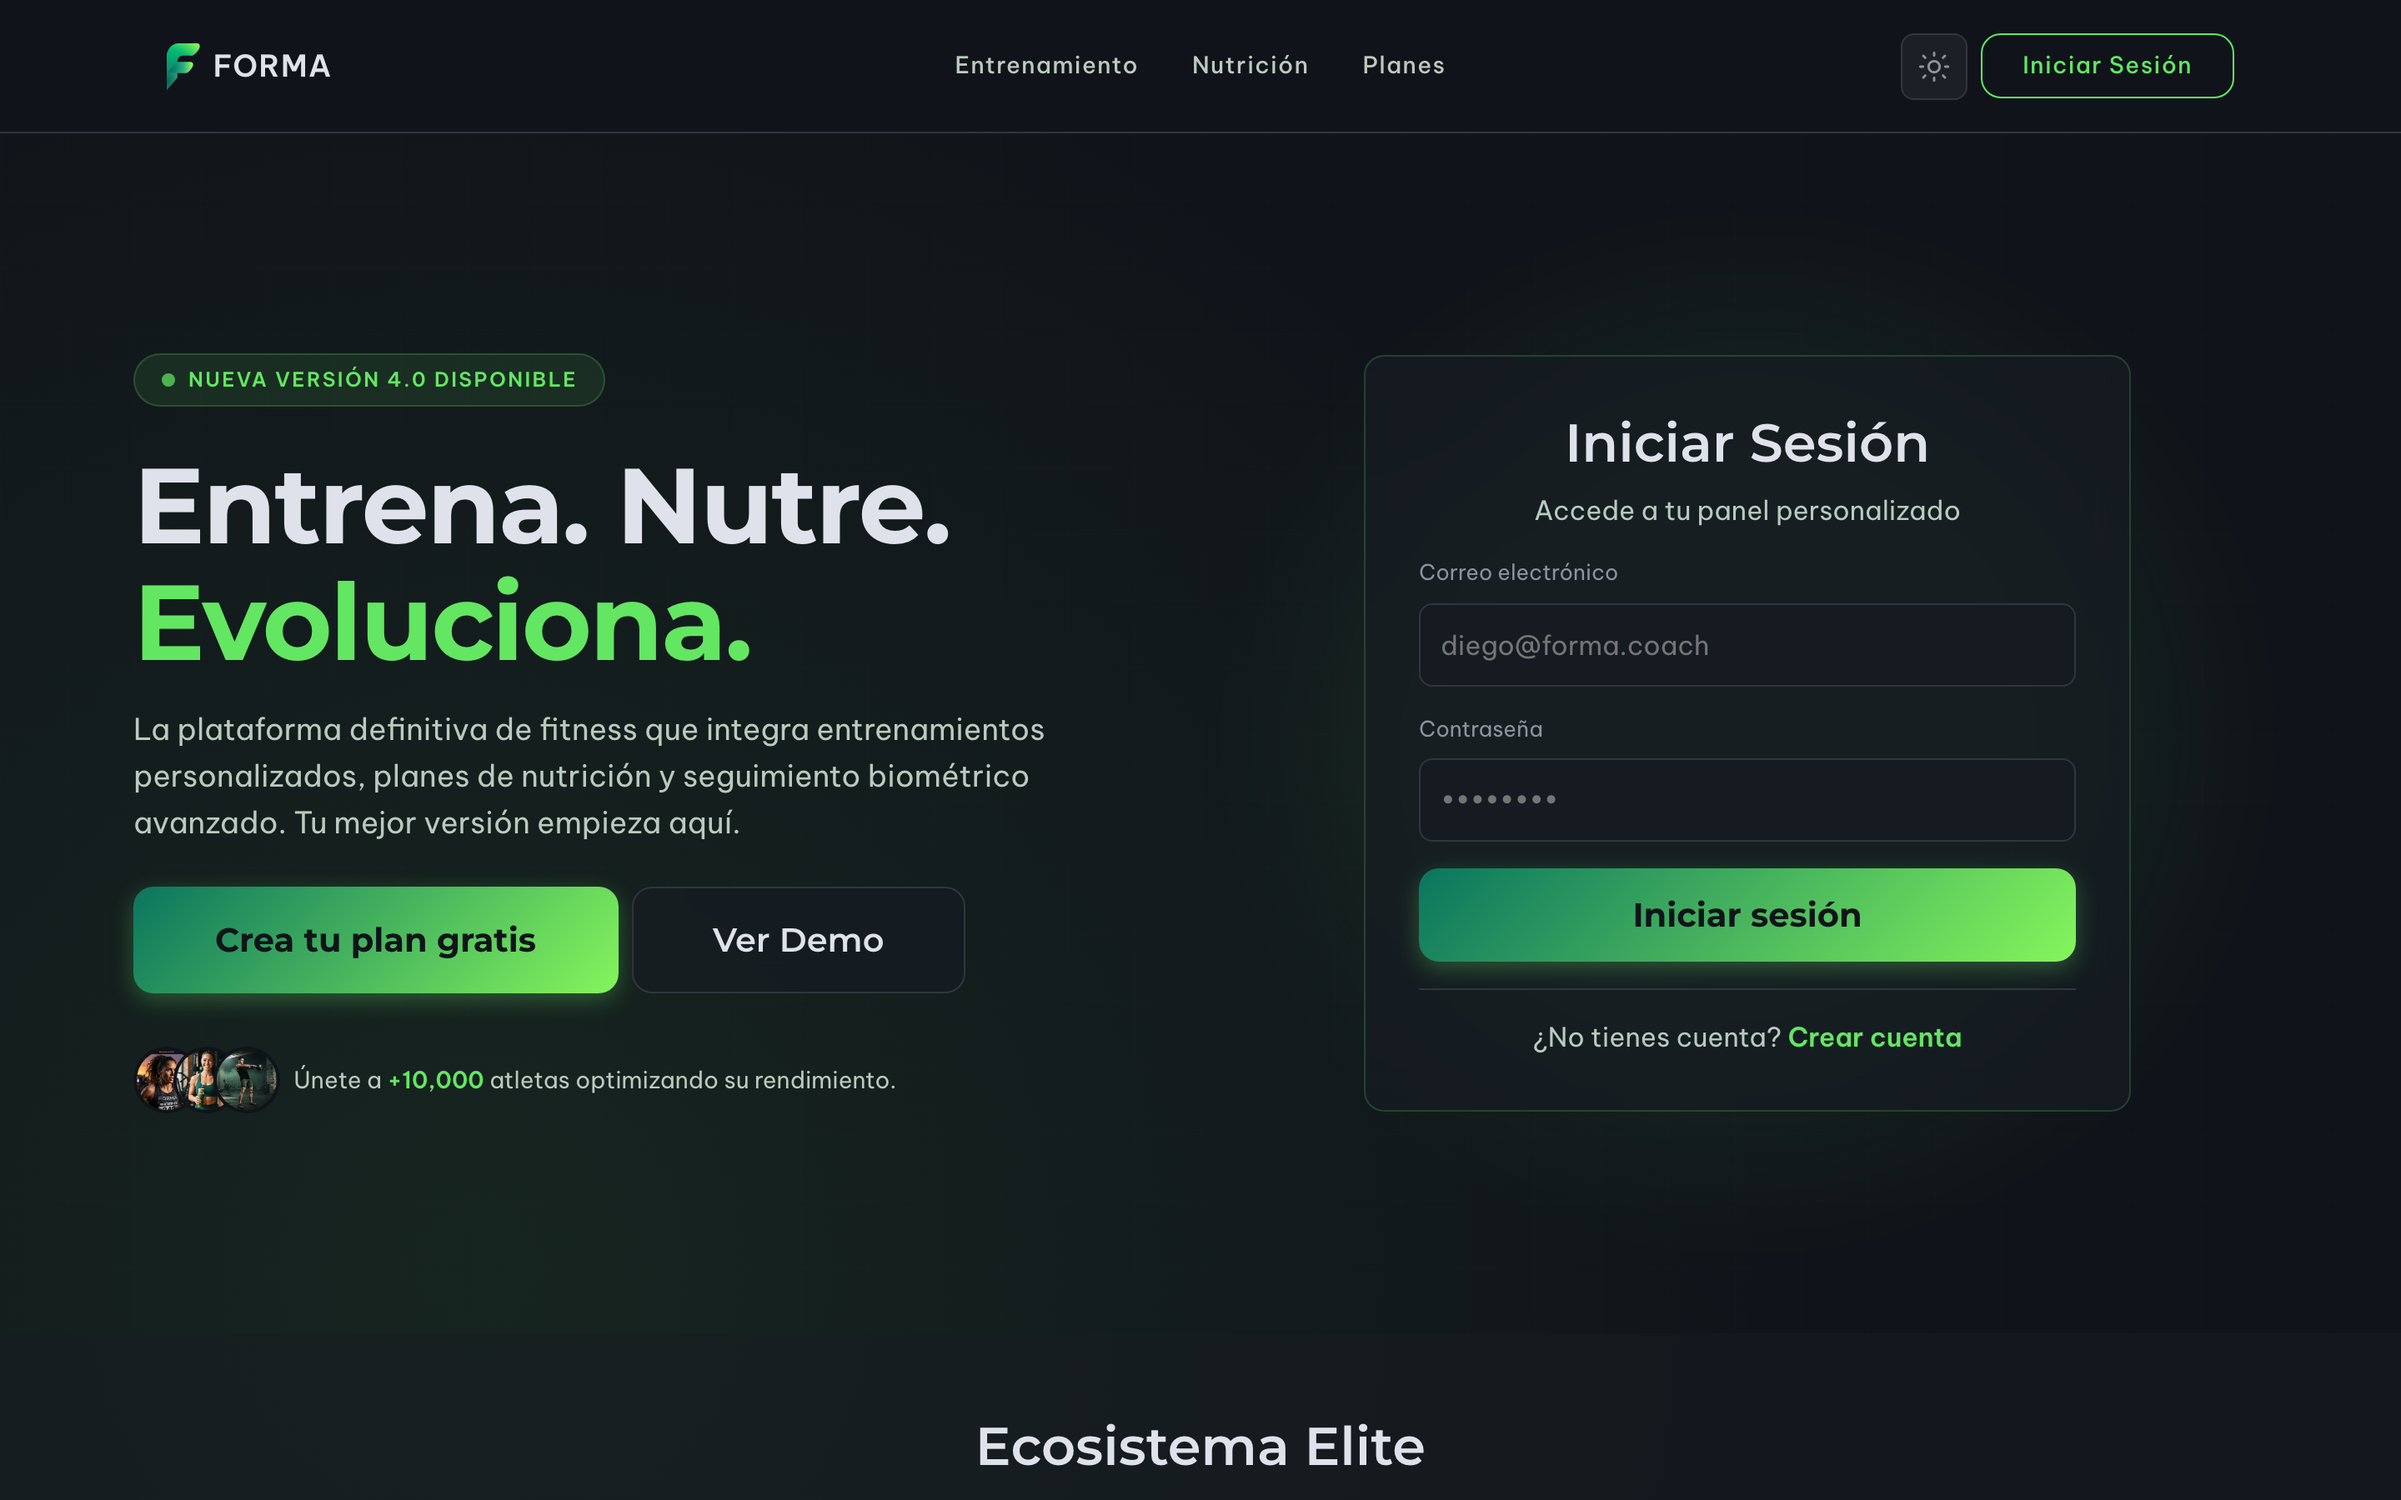
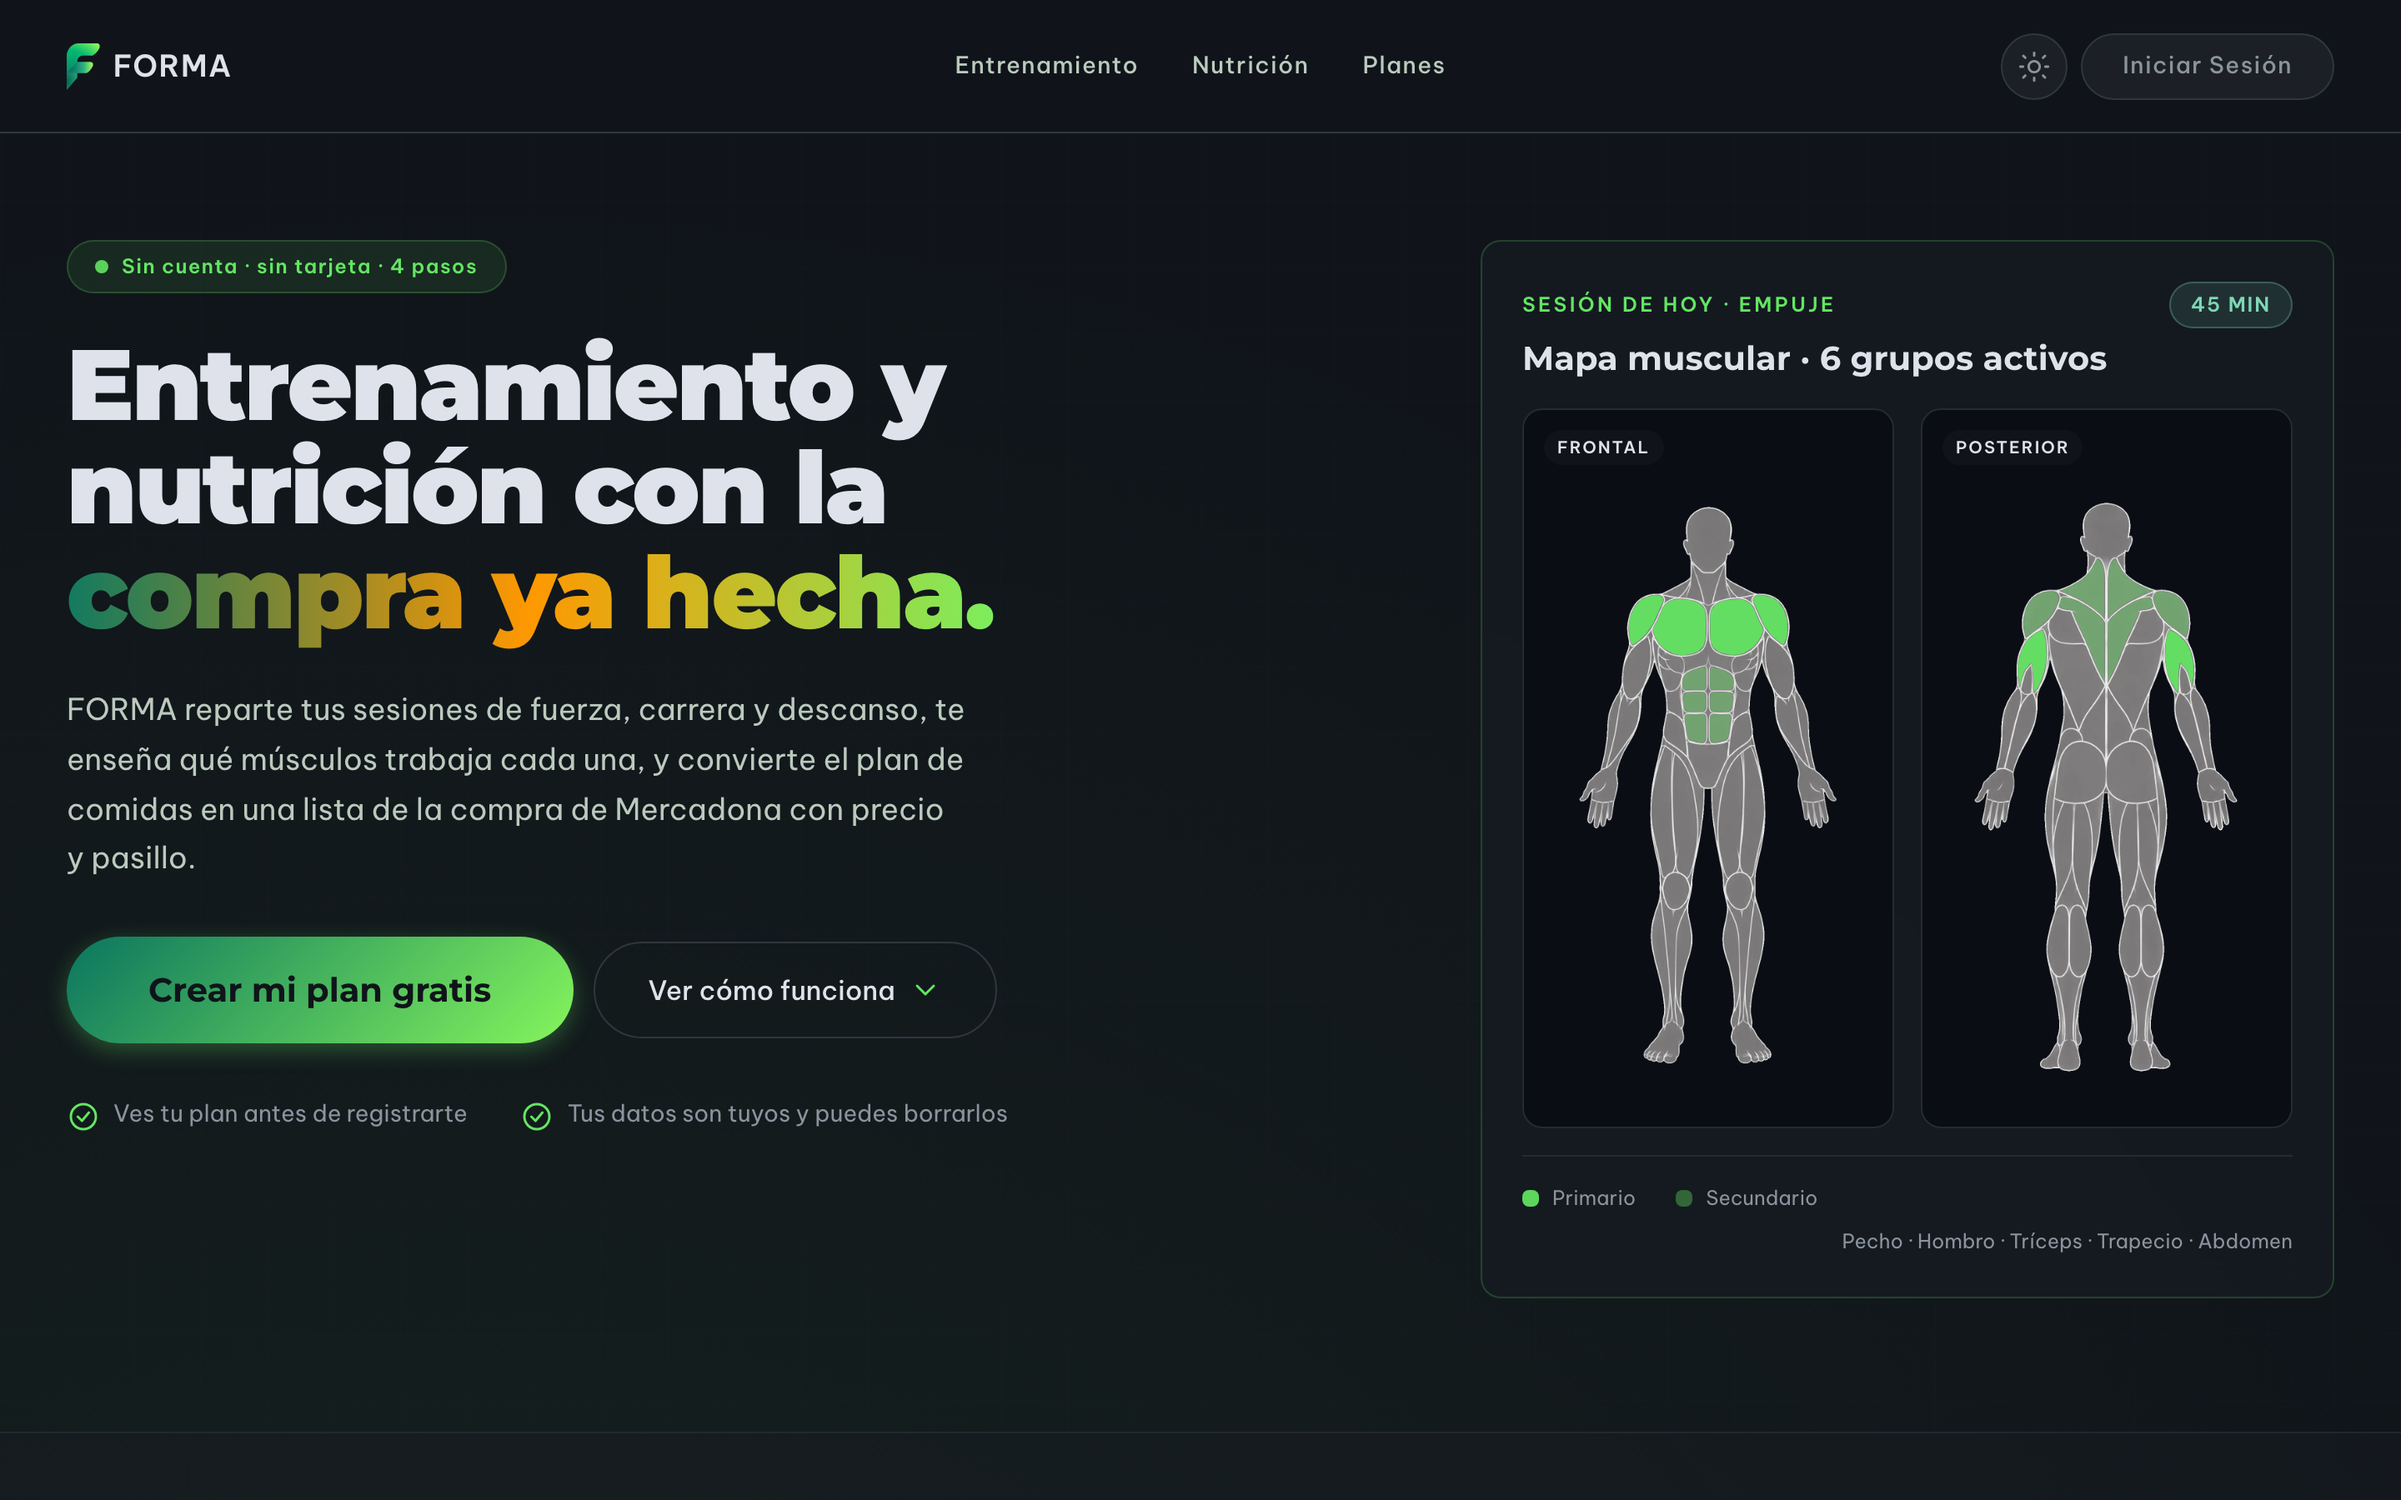
💄 style(proyectos): las capturas de FORMA muestran la versión de hoy
Las cinco capturas eran del 9 de agosto y ninguna de ellas existe ya: la
portada tiene otro hero y el mapa muscular, y el generador pasó de cuatro
pasos en dos columnas a una sola columna con deslizadores.

La tarjeta enseñaba solo la parte pública, así que quien la miraba veía un
embudo de captación y no la aplicación. Ahora son seis: portada y dos pasos
del generador desde producción, y el dashboard, la semana de entrenamiento y
la lista de la compra —lo que de verdad diferencia a FORMA— desde main con la
API stubbeada, para que ninguna medición real acabe en una página pública.

Con seis pantallas de sitios distintos, el `browserUrl` del marco deja de ser
/plan: rotular todas las capturas con la ruta del embudo era mentir en cinco
de ellas.

diff --git a/src/components/Projects.tsx b/src/components/Projects.tsx
@@ -7,11 +7,12 @@ import { t } from "@/lib/translations";
 
 const SCREENSHOTS: Record<string, string[]> = {
   forma: [
-    "/screenshots/forma/forma-1.png",
-    "/screenshots/forma/forma-2.png",
-    "/screenshots/forma/forma-3.png",
-    "/screenshots/forma/forma-4.png",
-    "/screenshots/forma/forma-5.png",
+    "/screenshots/forma/forma-1.png?v=2",
+    "/screenshots/forma/forma-2.png?v=2",
+    "/screenshots/forma/forma-3.png?v=2",
+    "/screenshots/forma/forma-4.png?v=2",
+    "/screenshots/forma/forma-5.png?v=2",
+    "/screenshots/forma/forma-6.png?v=2",
   ],
   akademia: [
     "/screenshots/akademia/1.png",

diff --git a/src/lib/translations.ts b/src/lib/translations.ts
@@ -80,7 +80,7 @@ export const t = {
           ],
           openApp: "Open app",
           url: "https://forma.diegobarrioh.dev/plan",
-          browserUrl: "forma.diegobarrioh.dev/plan",
+          browserUrl: "forma.diegobarrioh.dev",
         },
         {
           id: "akademia",
@@ -266,7 +266,7 @@ export const t = {
           ],
           openApp: "Abrir app",
           url: "https://forma.diegobarrioh.dev/plan",
-          browserUrl: "forma.diegobarrioh.dev/plan",
+          browserUrl: "forma.diegobarrioh.dev",
         },
         {
           id: "akademia",
